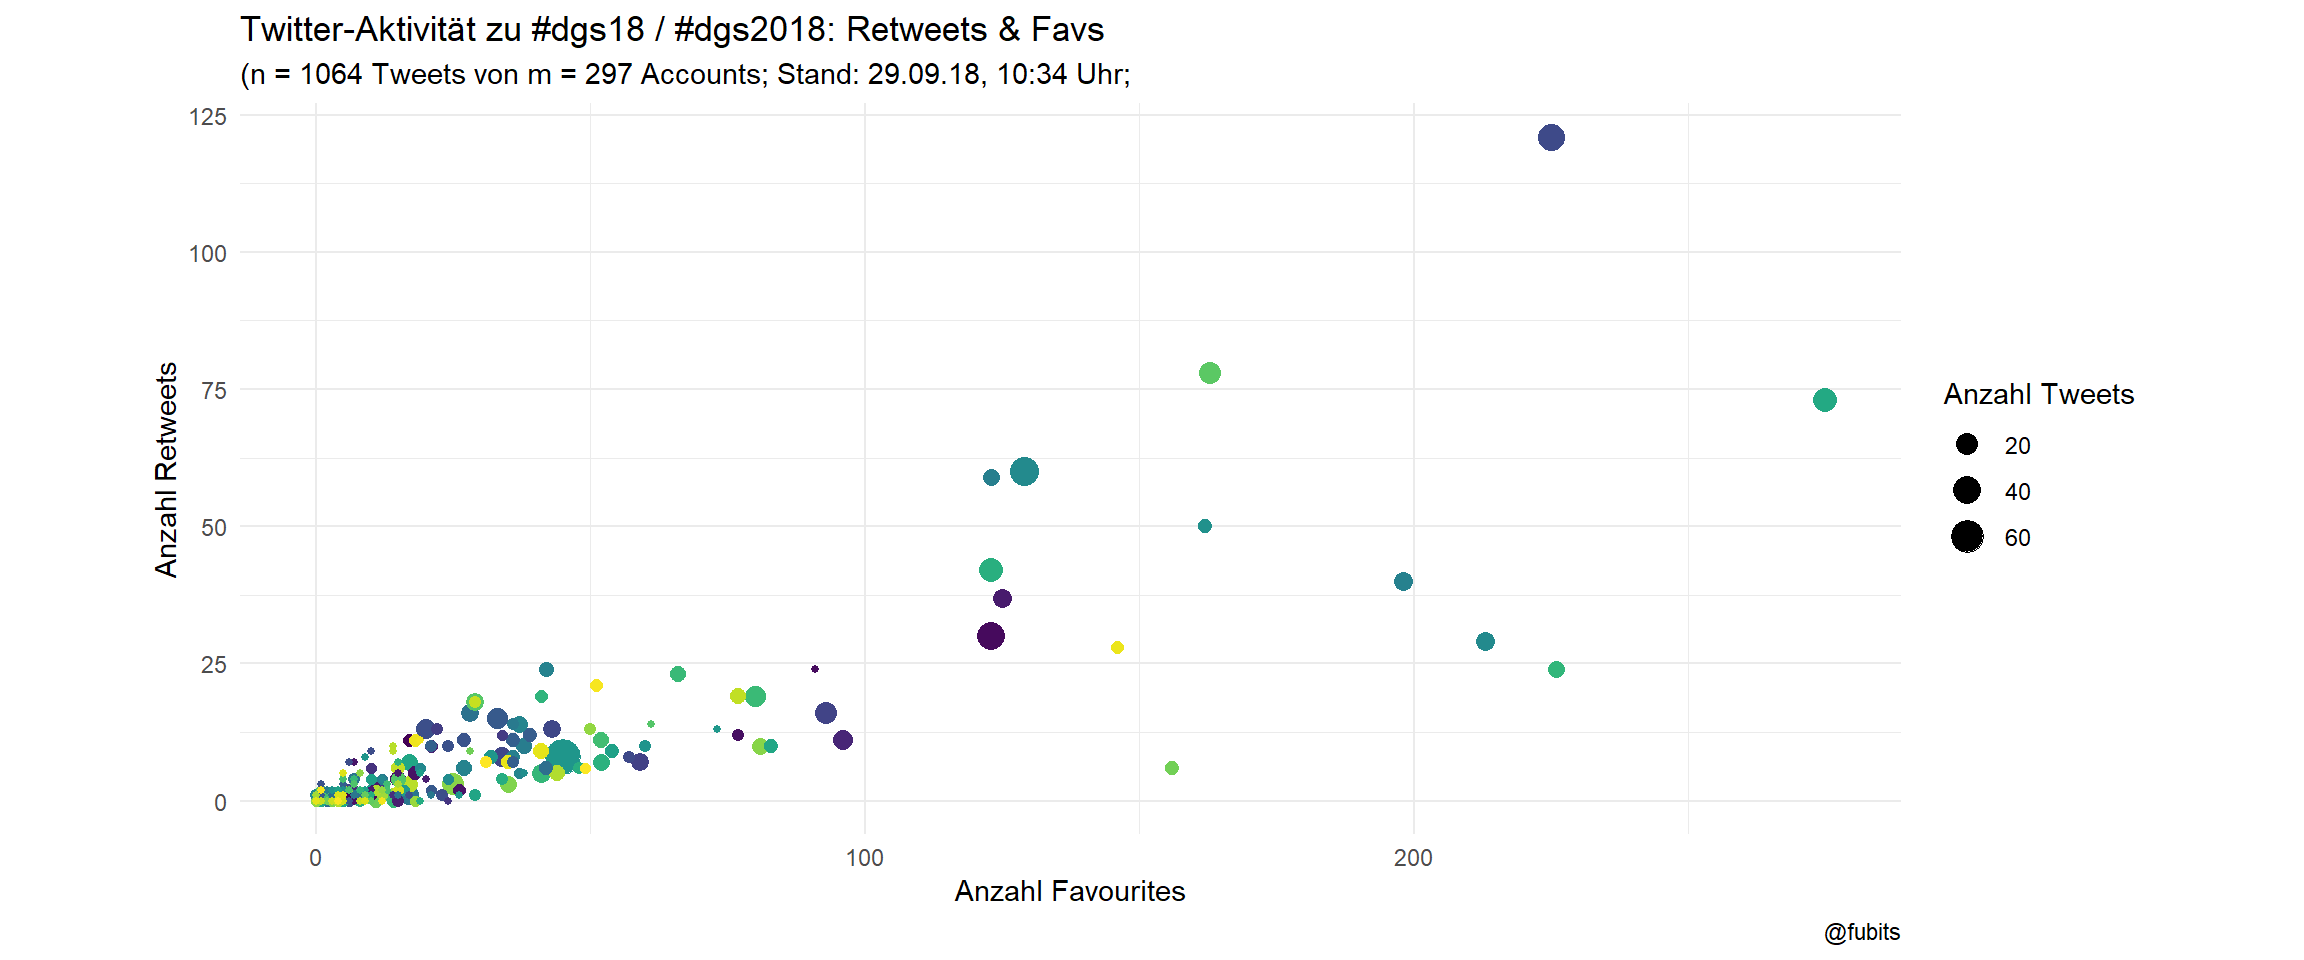
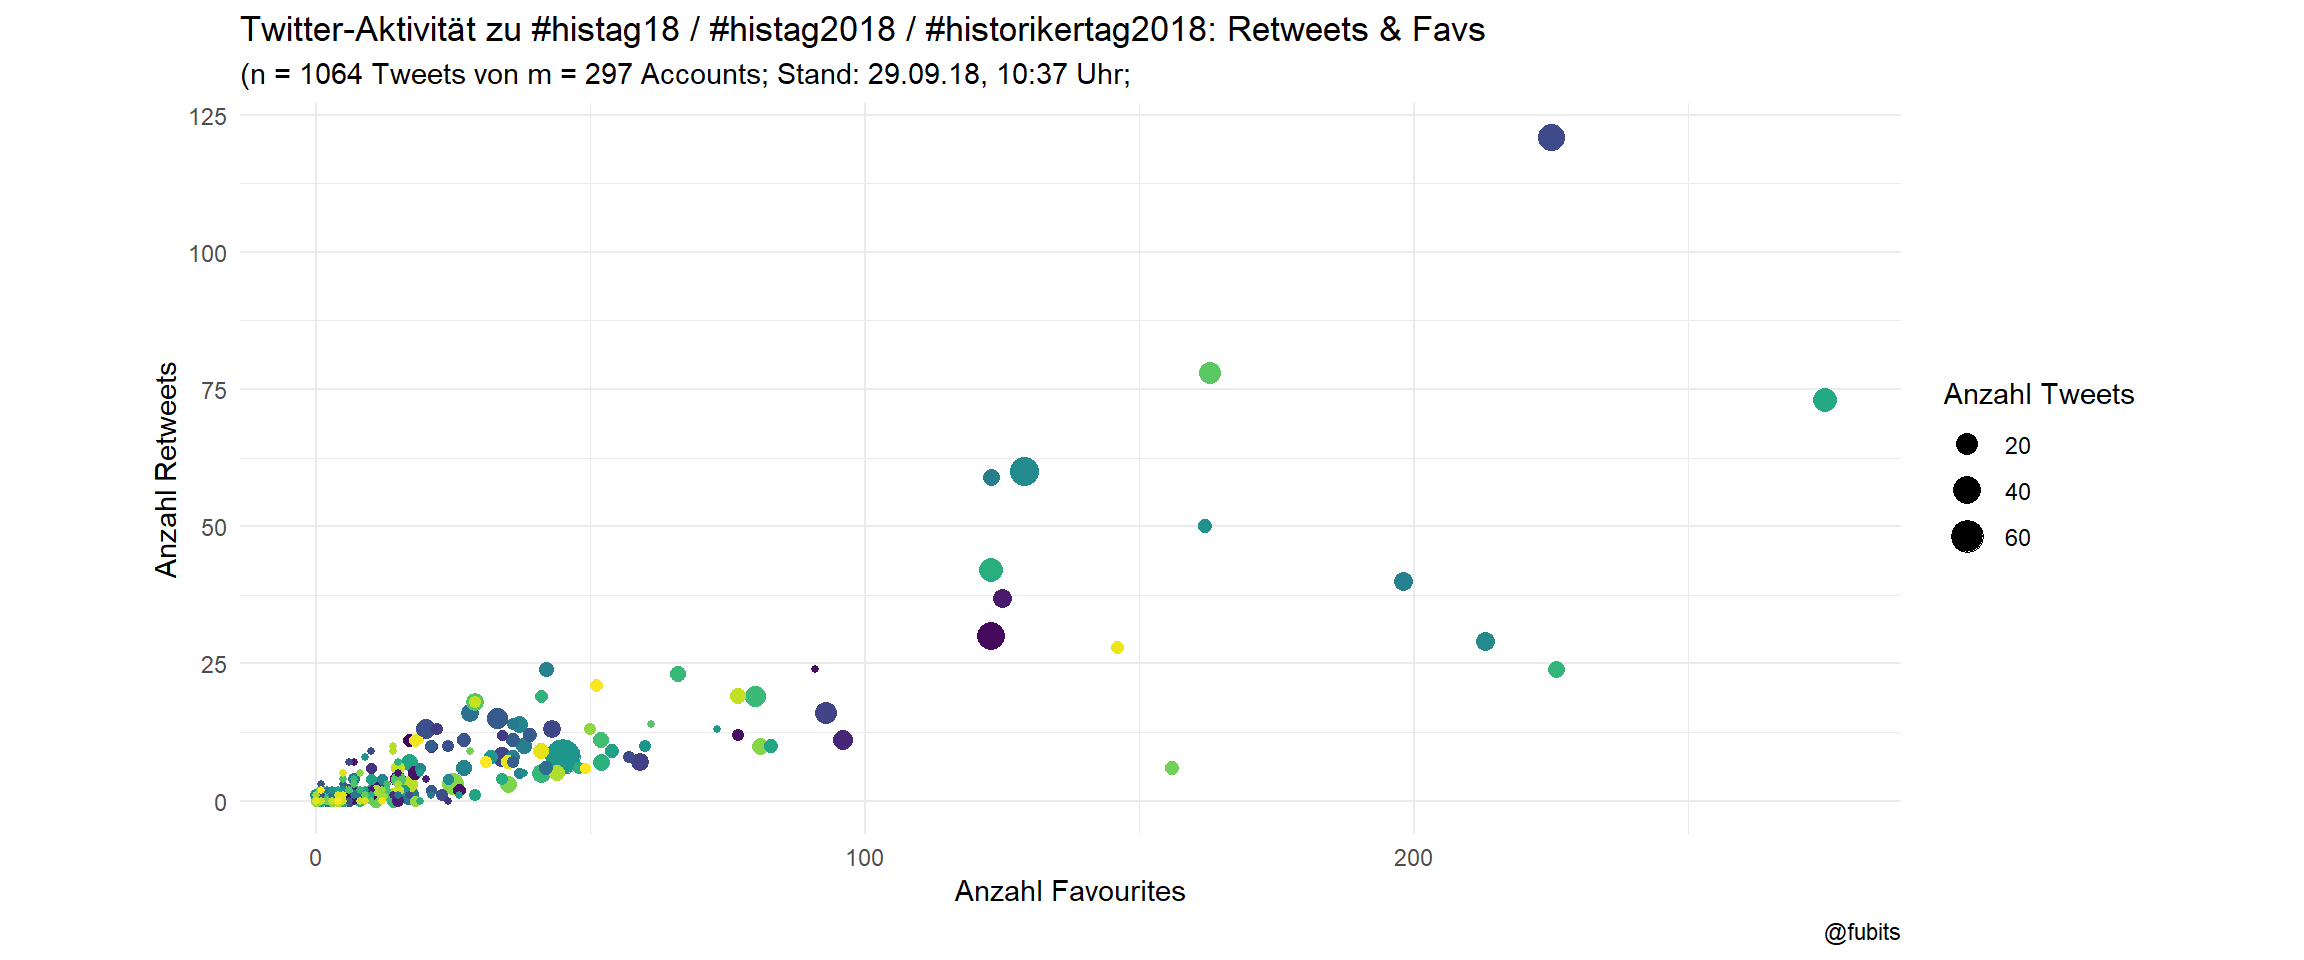
fixed dgs-typo Twitter Post

Changed region(s): [[0.25, 0.0, 0.6562, 0.0625]]

diff --git a/content/post/2018-09-28-r-academic-conference-twitter-pt-1-mining-dvpw18-dgs18-hist18-et-al.html b/content/post/2018-09-28-r-academic-conference-twitter-pt-1-mining-dvpw18-dgs18-hist18-et-al.html
@@ -120,7 +120,7 @@ twitter_token &lt;- readRDS(str_c(home_directory,&quot;/twitter_token.rds&quot;)
     unlist() %&gt;% glue::glue_collapse()
   }
 getTimeString()</code></pre>
-<pre><code>## 20180930103756</code></pre>
+<pre><code>## 20180930120507</code></pre>
 </div>
 <div id="prepare-filepath-for-.rds-with-here" class="section level2">
 <h2><span class="header-section-number">1.3</span> (Prepare filepath for .rds with <code>here()</code>)</h2>
@@ -346,7 +346,7 @@ dgs_collection %&gt;%
     guides(color = FALSE) +
     theme_minimal() +
     labs(size = &quot;Anzahl Tweets&quot;,
-         title = &quot;Twitter-Aktivität zu #dvpw18 / #dvpw2018: Top 20 Accounts&quot;,
+         title = &quot;Twitter-Aktivität zu #dgs18 / #dgs2018: Top 20 Accounts&quot;,
          subtitle = paste0(&quot;(n = &quot;, dgs_n_tweets,
                          &quot; Tweets von m = &quot;, dgs_n_accounts,
                          &quot; Accounts; Top 20 Label, Stand: 29.09.18, &quot;, 
@@ -414,7 +414,7 @@ hist_collection %&gt;%
   guides(color = FALSE) +
   theme_minimal() +
   labs(size = &quot;Anzahl Tweets&quot;,
-       title = &quot;Twitter-Aktivität zu #dgs18 / #dgs2018: Retweets &amp; Favs&quot;,
+       title = &quot;Twitter-Aktivität zu #histag18 / #histag2018 / #historikertag2018: Retweets &amp; Favs&quot;,
        subtitle = paste0(&quot;(n = &quot;, hist_n_tweets,
                        &quot; Tweets von m = &quot;, hist_n_accounts,
                        &quot; Accounts; Stand: 29.09.18, &quot;, timeString , &quot; Uhr;&quot;),
